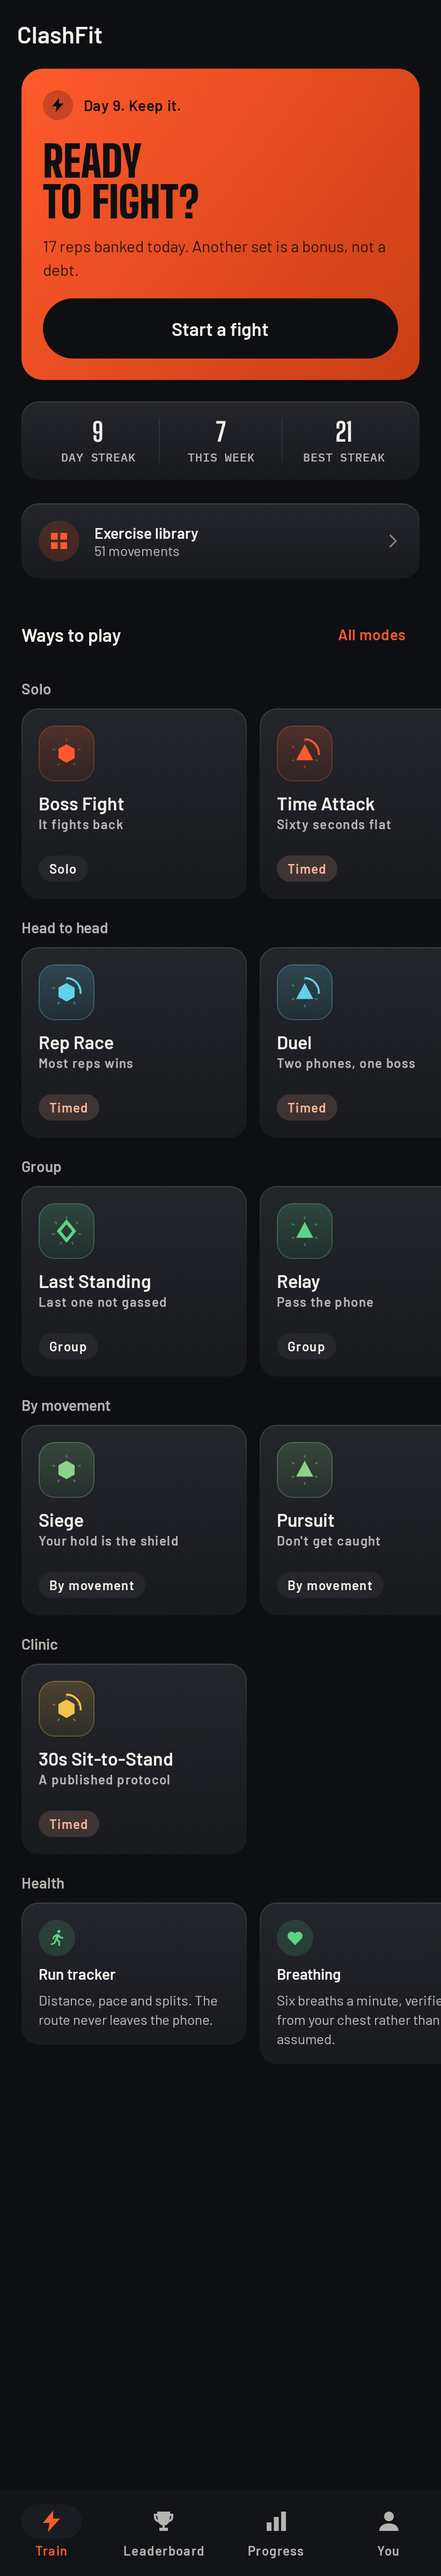
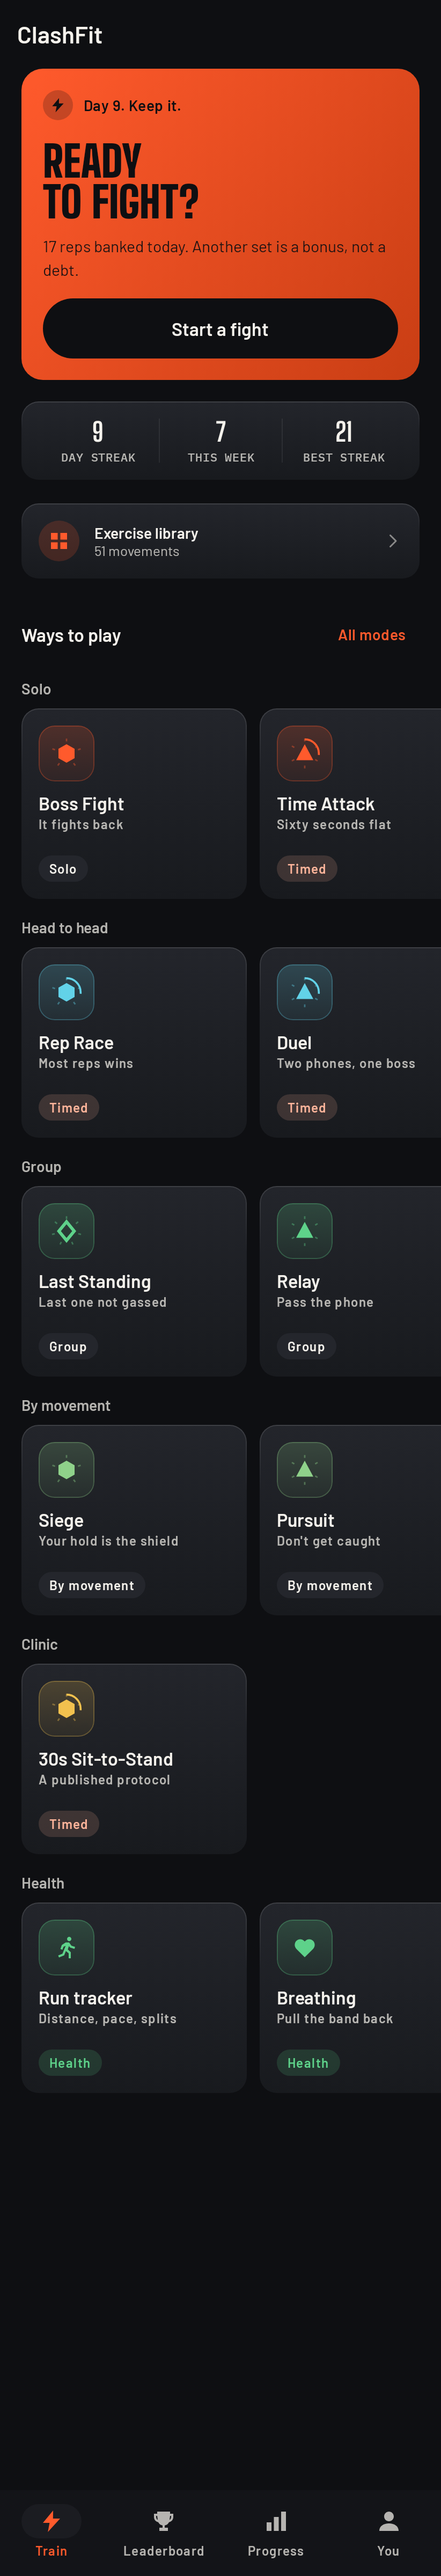
feat(android): the health tools are tiles too
Six health cards sat directly beneath sixteen mode tiles on the same page, at
the same width, carrying three lines of prose each and a small circle icon.
The bottom of Train looked like a different app had been pasted onto the end
of it. Same plate, same size, same one-line hook, tinted green so the section
still reads as its own thing — and "Six breaths a minute, verified from your
chest rather than assumed" keeps its place on the screen that has room for it.

Changed region(s): [[0.6083, 0.7188, 0.7908, 0.8125], [0.0912, 0.7188, 0.2737, 0.8125]]

diff --git a/android/app/src/main/java/com/clashfit/ui/screens/home/HomeScreen.kt b/android/app/src/main/java/com/clashfit/ui/screens/home/HomeScreen.kt
@@ -69,6 +69,10 @@ import androidx.compose.ui.graphics.vector.ImageVector
 import androidx.compose.foundation.layout.width
 import com.clashfit.ui.nav.Library
 import com.clashfit.ui.theme.InkFaint
+import androidx.compose.foundation.border
+import androidx.compose.foundation.layout.heightIn
+import androidx.compose.foundation.shape.RoundedCornerShape
+import com.clashfit.ui.components.Tag
 
 /**
  * The Train tab. One tap into a fight, then every way to play as carousels grouped by how many
@@ -183,30 +187,45 @@ fun HomeScreen(graph: AppGraph, nav: NavHostController) {
     }
 }
 
-/** One health tool on the Train tab. */
-private data class Tool(val title: String, val blurb: String, val icon: ImageVector, val route: Route)
+/** One health tool on the Train tab. The hook is a card's worth; the blurb is a screen's. */
+private data class Tool(val title: String, val hook: String, val icon: ImageVector, val route: Route)
 
 private val HEALTH_TOOLS = listOf(
-    Tool("Run tracker", "Distance, pace and splits. The route never leaves the phone.", AppIcons.Run, RunHome),
-    Tool("Breathing", "Six breaths a minute, verified from your chest rather than assumed.", AppIcons.Heart, Breathing),
-    Tool("Clinic", "The sit-to-stand test a physiotherapist uses.", AppIcons.Heart, Clinic),
-    Tool("Desk timer", "Sixty seconds of movement, every fifty minutes.", AppIcons.Bolt, Desk),
-    Tool("Posture", "One frame every few minutes, scored and discarded.", AppIcons.Person, Posture),
-    Tool("Wake-up alarm", "It rings until the reps stop it.", AppIcons.Bell, Alarms),
+    Tool("Run tracker", "Distance, pace, splits", AppIcons.Run, RunHome),
+    Tool("Breathing", "Pull the band back", AppIcons.Heart, Breathing),
+    Tool("Clinic", "The sit-to-stand test", AppIcons.Heart, Clinic),
+    Tool("Desk timer", "A minute every fifty", AppIcons.Bolt, Desk),
+    Tool("Posture", "Scored, then discarded", AppIcons.Person, Posture),
+    Tool("Wake-up alarm", "Reps stop the ringing", AppIcons.Bell, Alarms),
 )
 
 @Composable
 private fun ToolCard(tool: Tool, onClick: () -> Unit) {
-    AppCard(Modifier.width(210.dp), padding = 16, onClick = onClick) {
-        Column(verticalArrangement = Arrangement.spacedBy(8.dp)) {
+    // The same tile as a mode, on the same page, at the same width. These sat directly beneath
+    // sixteen mode tiles carrying three lines of prose each, which made the bottom of Train look
+    // like a different app had been pasted onto the end of it.
+    AppCard(Modifier.width(210.dp).heightIn(min = 148.dp), padding = 16, onClick = onClick) {
+        Column(verticalArrangement = Arrangement.spacedBy(10.dp)) {
             Box(
-                Modifier.size(34.dp).clip(CircleShape).background(Success.copy(alpha = 0.16f)),
+                Modifier
+                    .size(52.dp)
+                    .clip(RoundedCornerShape(15.dp))
+                    .background(
+                        Brush.verticalGradient(
+                            listOf(Success.copy(alpha = 0.20f), Success.copy(alpha = 0.07f)),
+                        ),
+                    )
+                    .border(1.dp, Success.copy(alpha = 0.28f), RoundedCornerShape(15.dp)),
                 contentAlignment = Alignment.Center,
             ) {
-                Icon(tool.icon, contentDescription = null, tint = Success, modifier = Modifier.size(18.dp))
+                Icon(tool.icon, contentDescription = null, tint = Success, modifier = Modifier.size(24.dp))
             }
-            Text(tool.title, style = MaterialTheme.typography.titleSmall, color = Ink)
-            Text(tool.blurb, style = MaterialTheme.typography.bodySmall, color = InkMuted, maxLines = 3)
+            Column(verticalArrangement = Arrangement.spacedBy(2.dp)) {
+                Text(tool.title, style = MaterialTheme.typography.titleMedium, color = Ink, maxLines = 1)
+                Text(tool.hook, style = MaterialTheme.typography.labelMedium, color = InkMuted, maxLines = 1)
+            }
+            Spacer(Modifier.height(2.dp))
+            Tag("Health", color = Success)
         }
     }
 }
